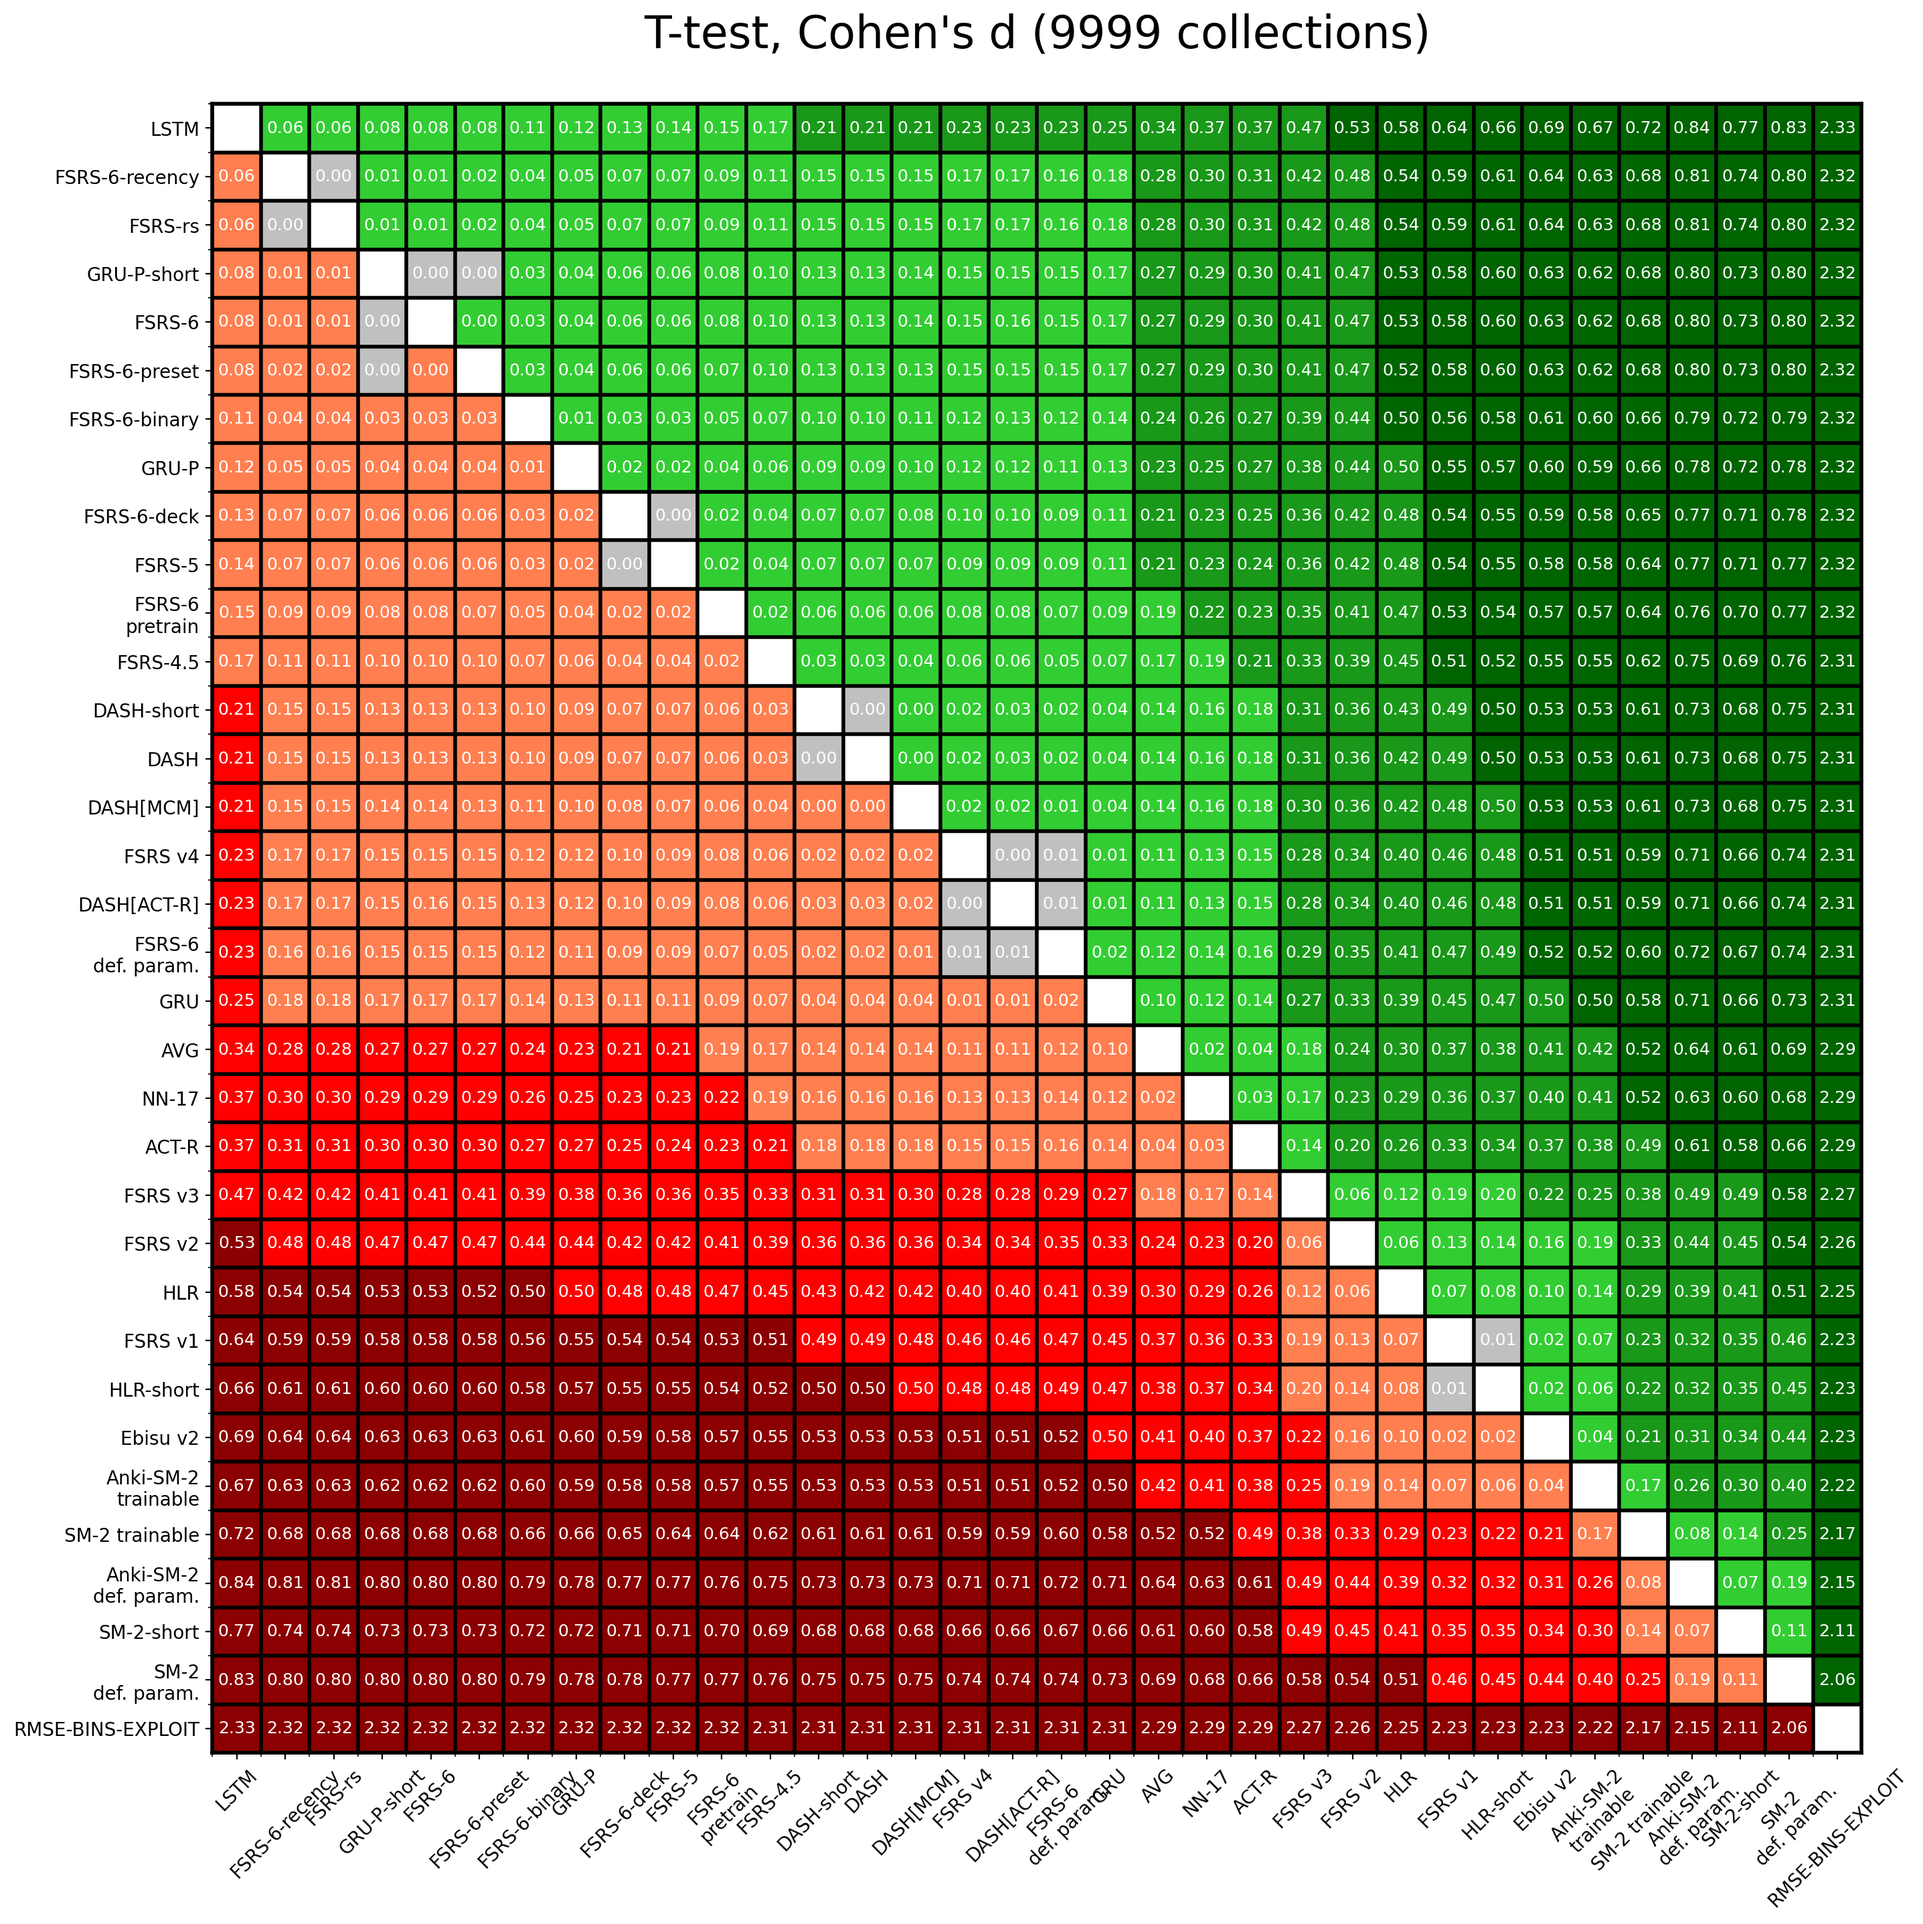
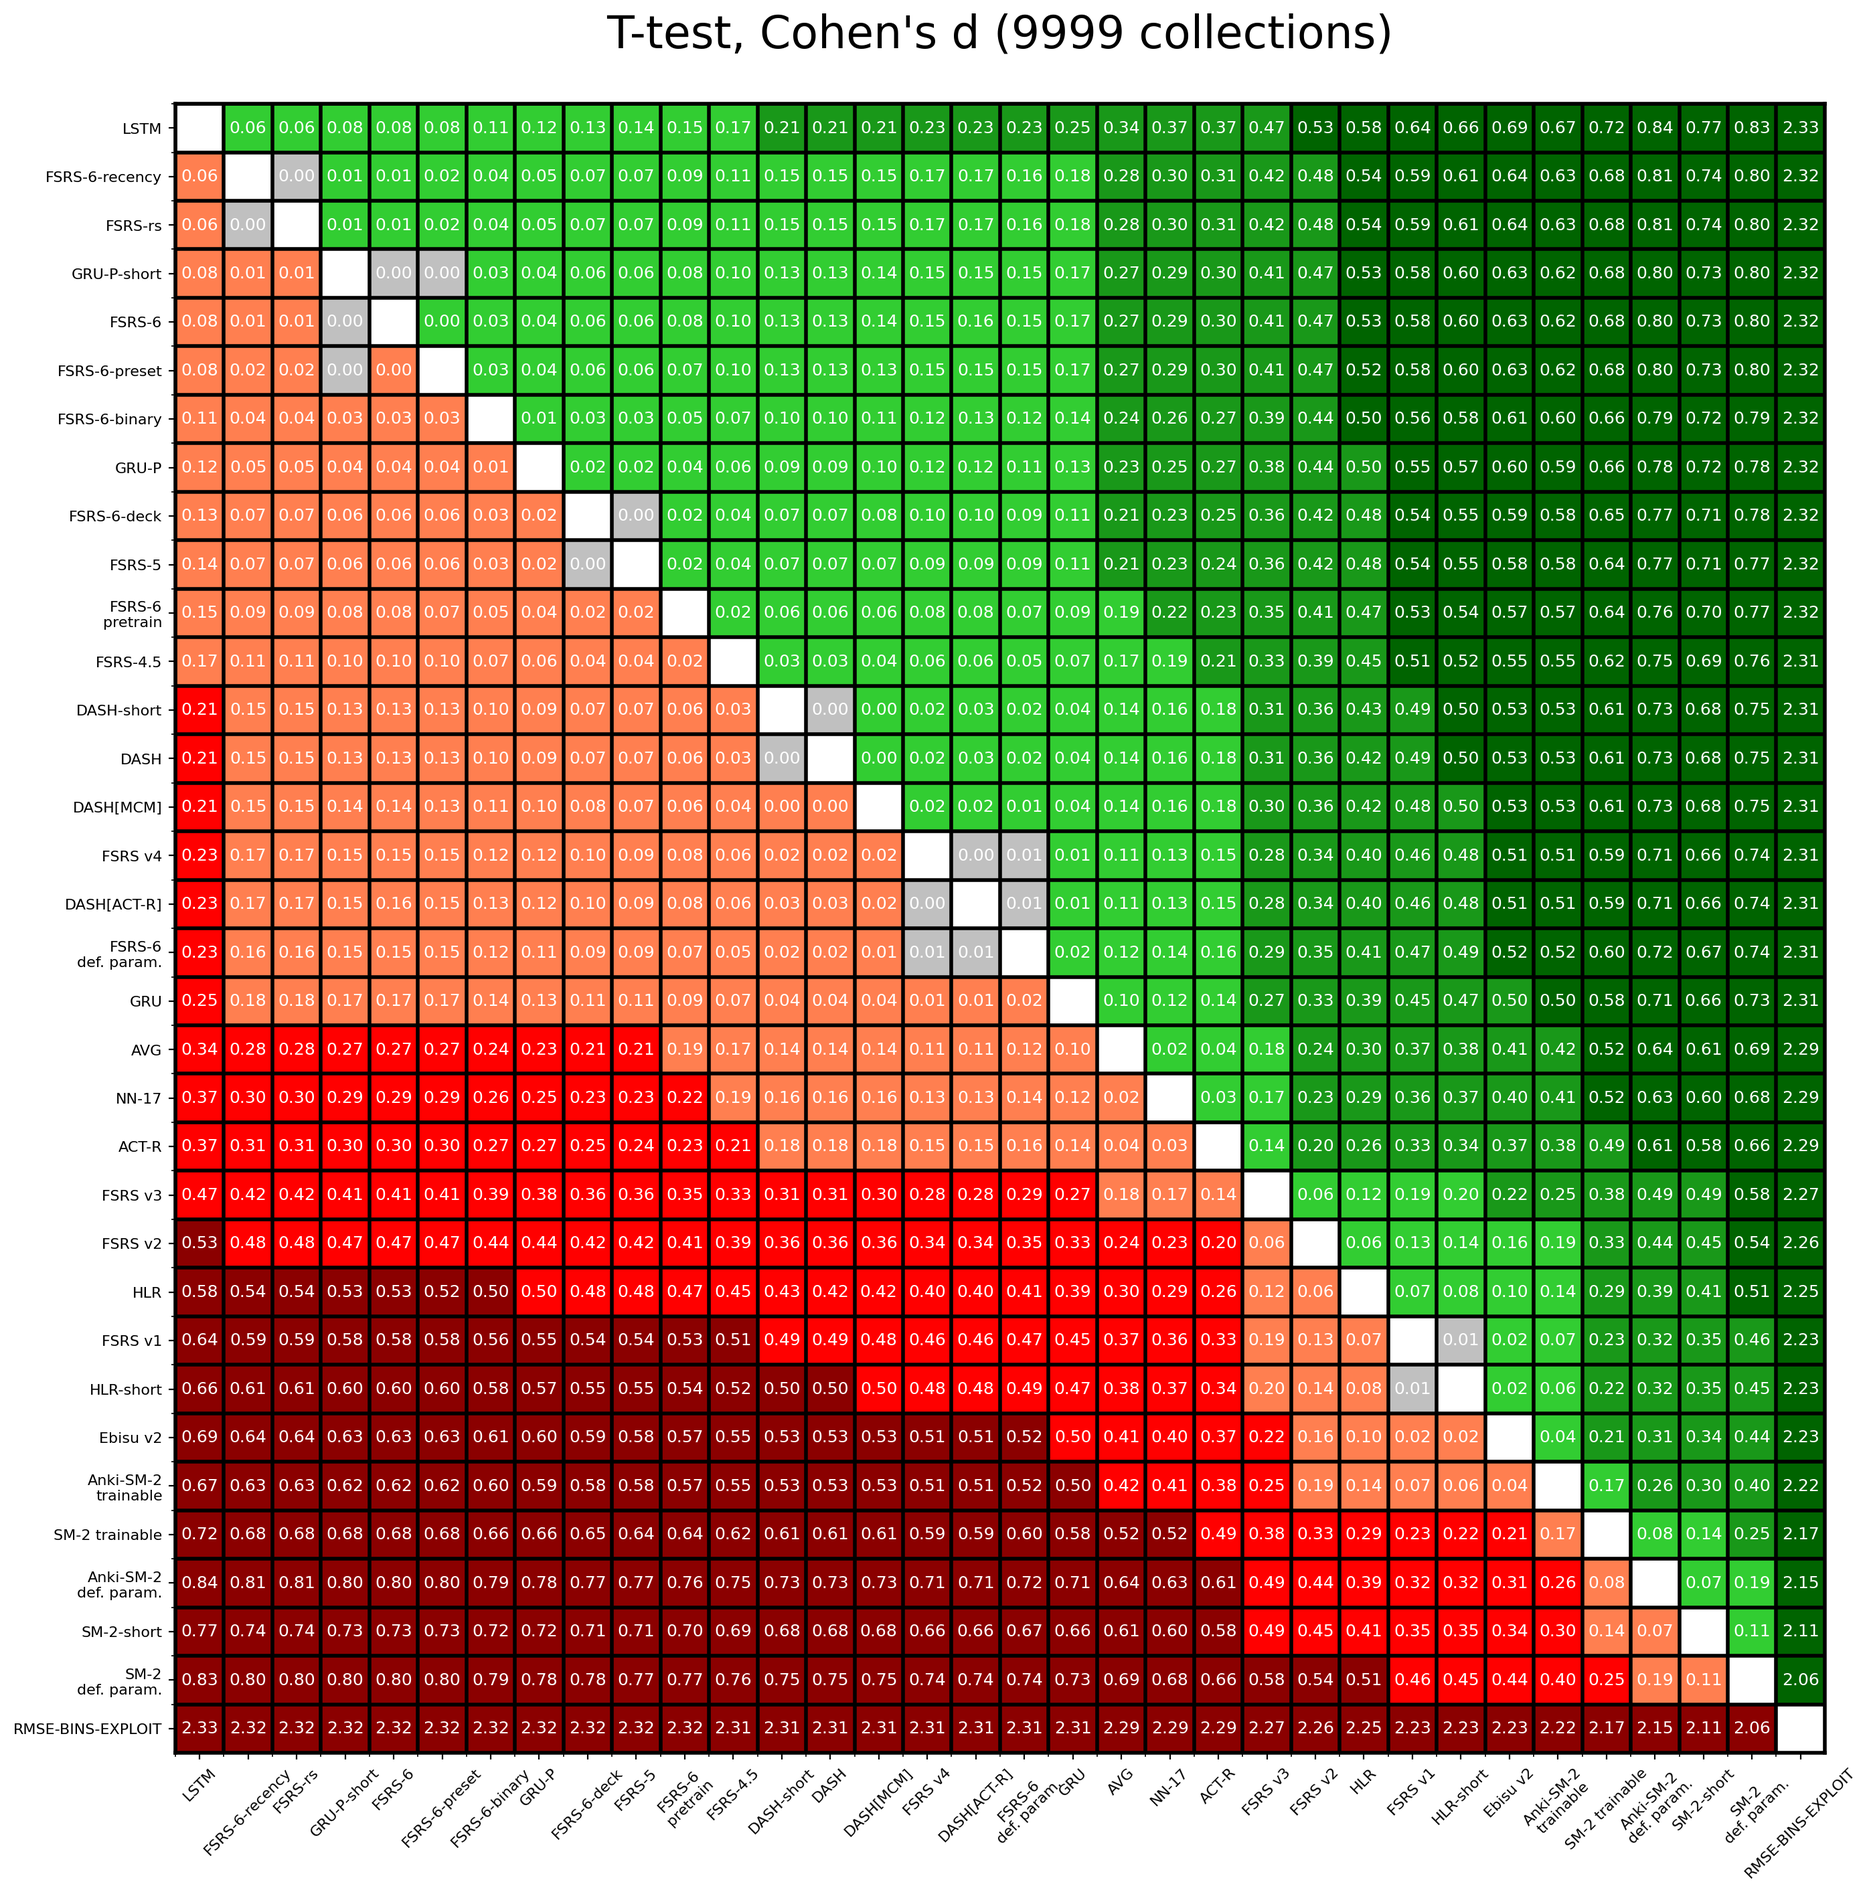
fix ticks overlapping

diff --git a/superiority.py b/superiority.py
@@ -211,8 +211,8 @@ if __name__ == "__main__":
                     fontsize=6.5,
                 )
 
-    ax.set_xticks(np.arange(n), labels=models, fontsize=10, rotation=45)
-    ax.set_yticks(np.arange(n), labels=models, fontsize=10)
+    ax.set_xticks(np.arange(n), labels=models, fontsize=8, rotation=45)
+    ax.set_yticks(np.arange(n), labels=models, fontsize=8)
     ax.set_xticks(np.arange(n) - 0.5, minor=True)
     ax.set_yticks(np.arange(n) - 0.5, minor=True)
     plt.grid(True, alpha=1, color="black", linewidth=2, which="minor")

diff --git a/significance_table.py b/significance_table.py
@@ -279,8 +279,8 @@ if __name__ == "__main__":
                     fontsize=9,
                 )
 
-    ax.set_xticks(np.arange(n), labels=models, fontsize=10, rotation=45)
-    ax.set_yticks(np.arange(n), labels=models, fontsize=10)
+    ax.set_xticks(np.arange(n), labels=models, fontsize=8, rotation=45)
+    ax.set_yticks(np.arange(n), labels=models, fontsize=8)
     ax.set_xticks(np.arange(n) - 0.5, minor=True)
     ax.set_yticks(np.arange(n) - 0.5, minor=True)
     plt.grid(True, alpha=1, color="black", linewidth=2, which="minor")
